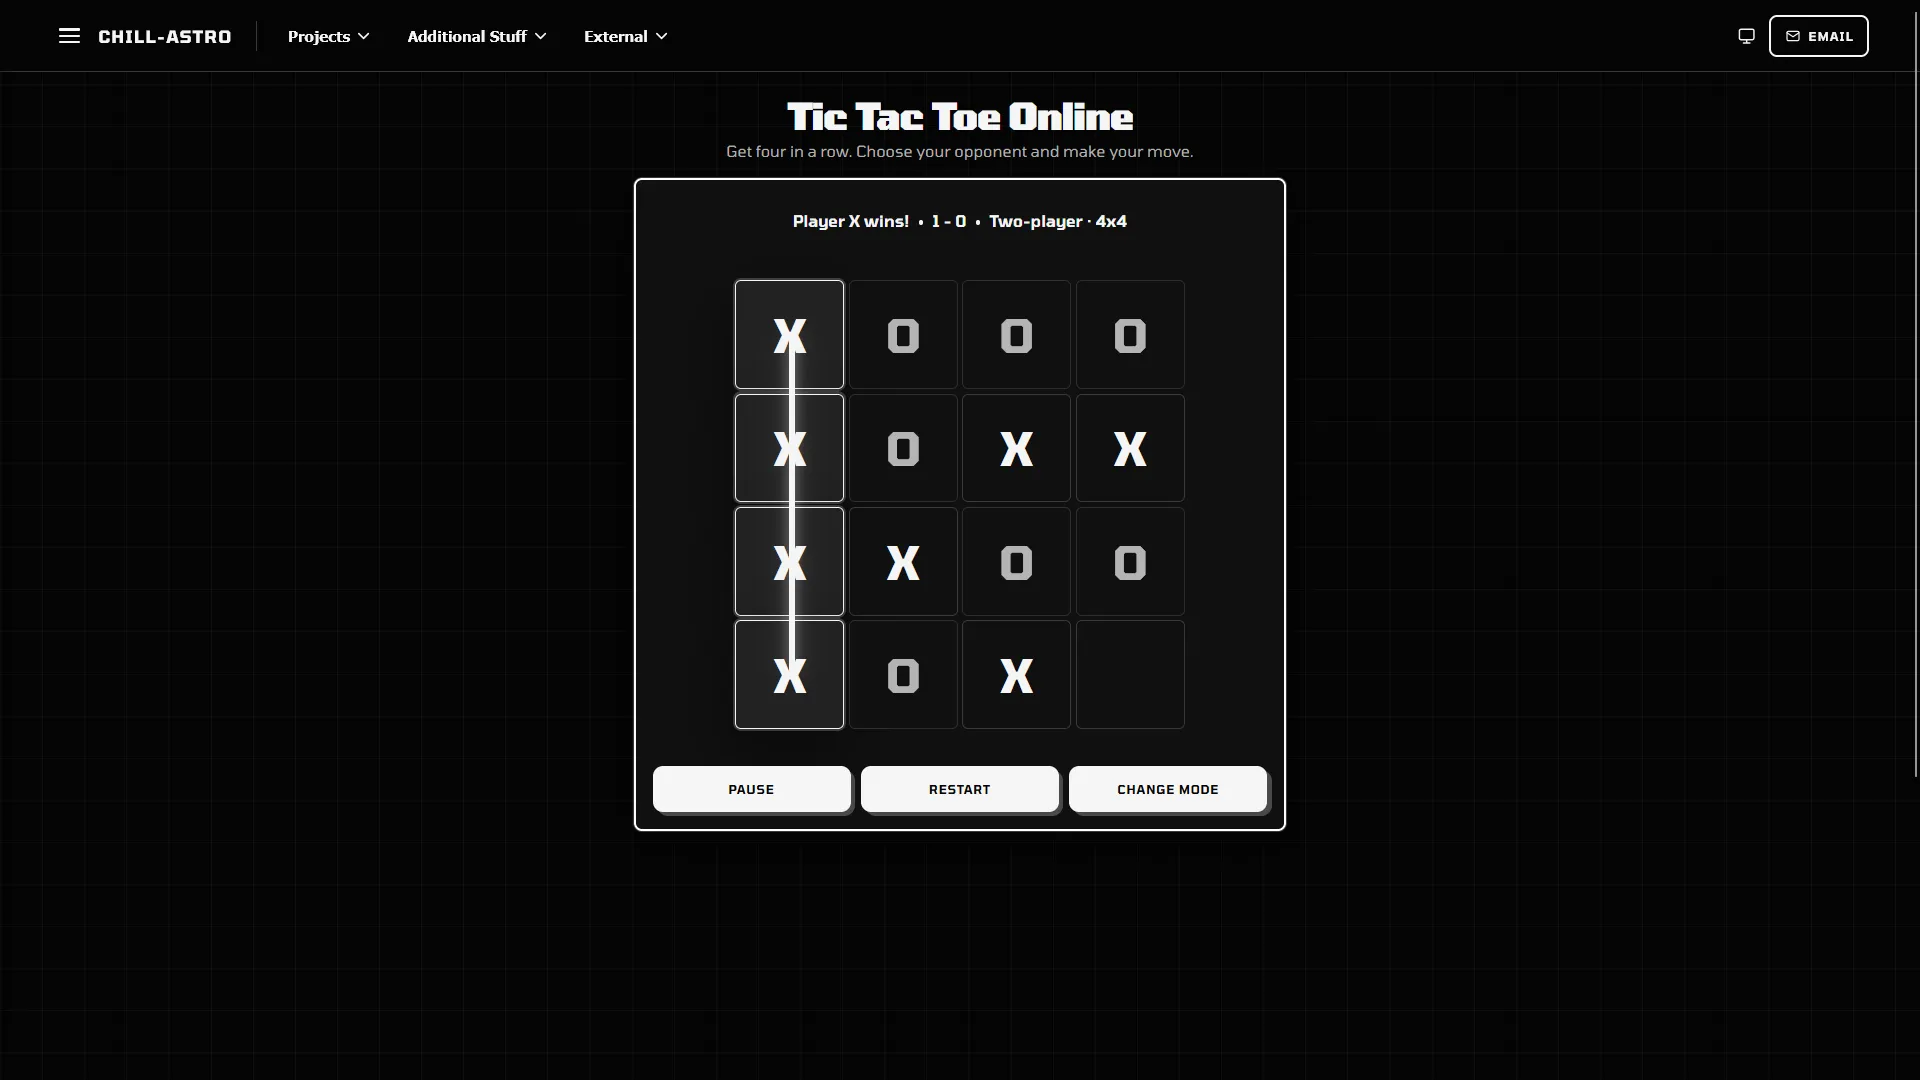
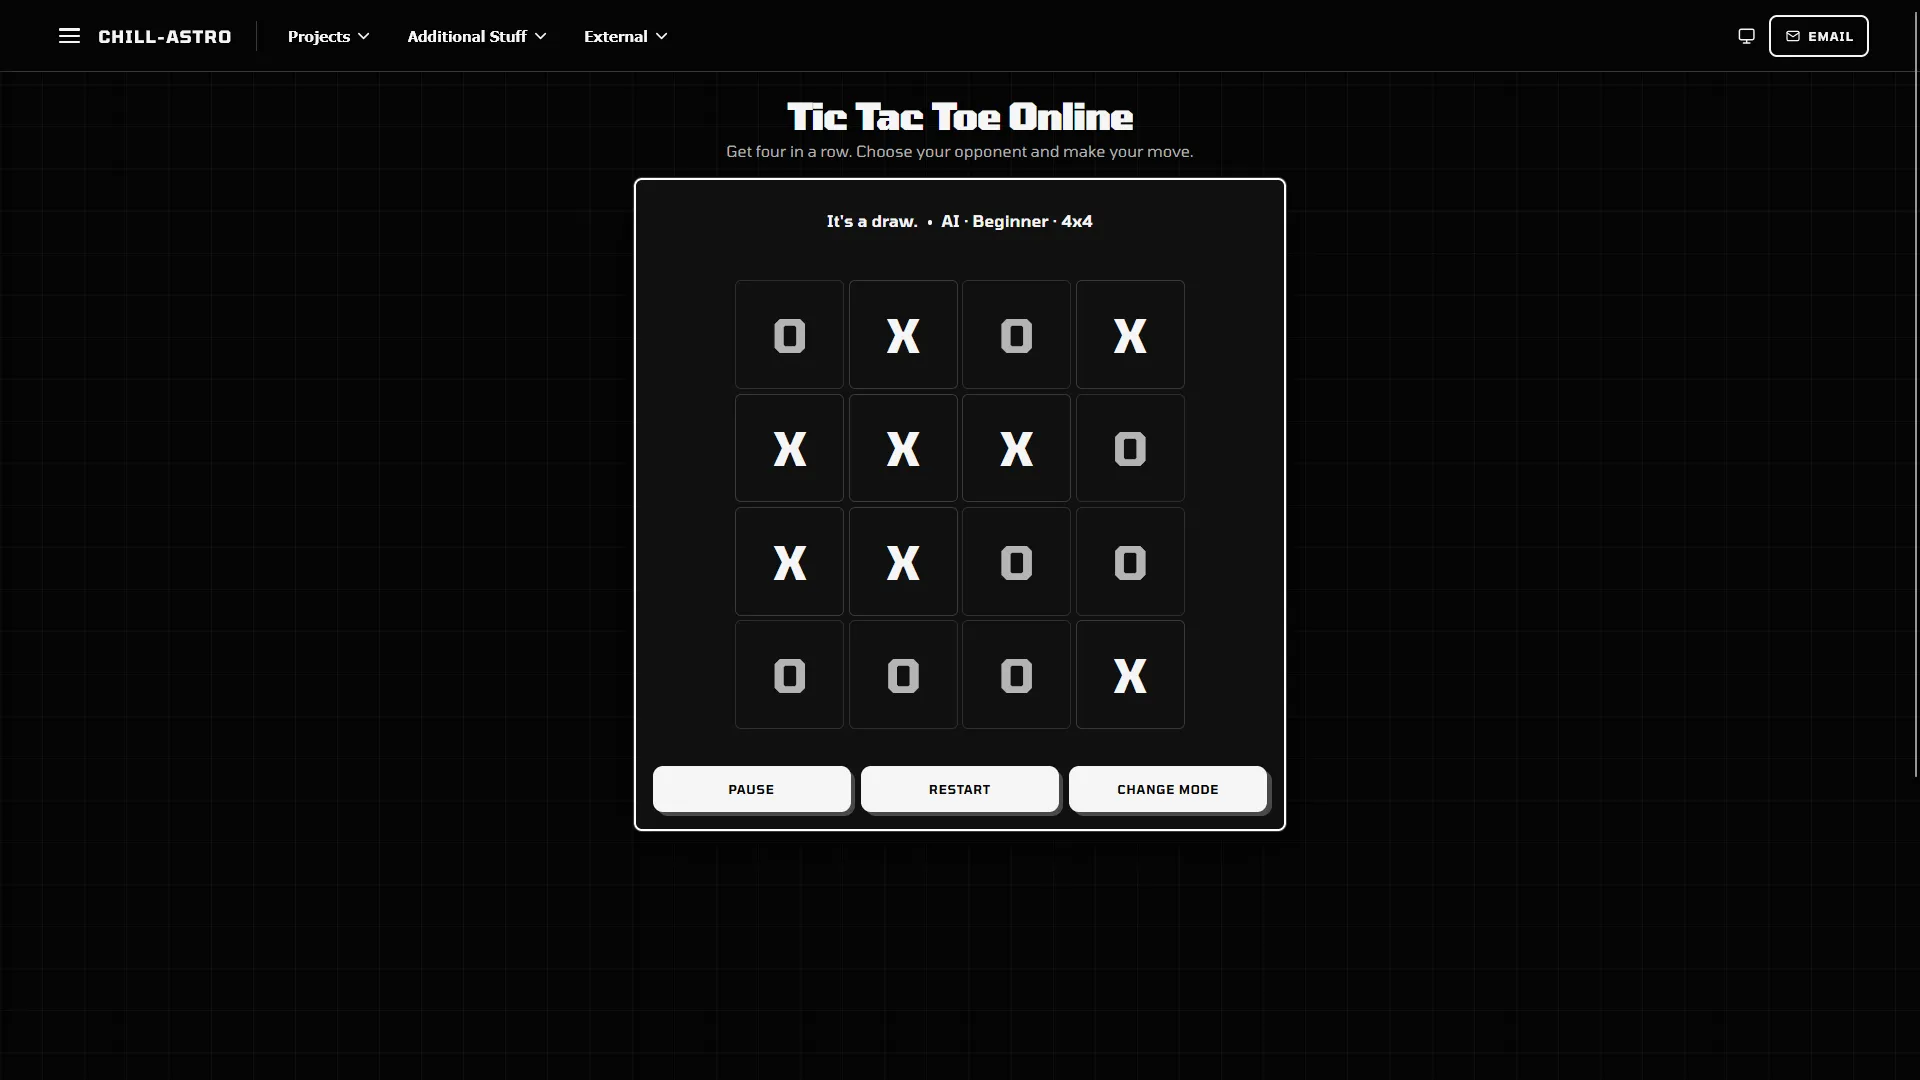
updated tic tac toe

diff --git a/js/tic-tac-toe.js b/js/tic-tac-toe.js
@@ -10,7 +10,6 @@
     const pauseButton = document.getElementById("pause-game");
     const restartButton = document.getElementById("restart-game");
     const changeModeButton = document.getElementById("change-mode");
-    const scoreElement = document.getElementById("ttt-score");
     const modeLabel = document.getElementById("mode-label");
     const winLine = document.getElementById("ttt-win-line");
     const pausedOverlay = document.getElementById("paused-overlay");
@@ -25,7 +24,7 @@
     const difficultyButtons = [...document.querySelectorAll(".ttt-mode-button[data-difficulty]")];
     const boardSizeButtons = [...document.querySelectorAll(".ttt-mode-button[data-board-size]")];
 
-    if (!modePicker || !game || !gameContent || !status || !boardElement || cells.length !== 25 || !pauseButton || !restartButton || !changeModeButton || !scoreElement || !modeLabel || !winLine || !pausedOverlay || modeButtons.length !== 2 || difficultyButtons.length !== 2 || boardSizeButtons.length !== 2 || !modeTitle || !modeDescription || !modeOptions || !difficultyOptions || !boardSizeOptions || !backButton || !boardSizeBackButton) {
+    if (!modePicker || !game || !gameContent || !status || !boardElement || cells.length !== 25 || !pauseButton || !restartButton || !changeModeButton || !modeLabel || !winLine || !pausedOverlay || modeButtons.length !== 2 || difficultyButtons.length !== 2 || boardSizeButtons.length !== 2 || !modeTitle || !modeDescription || !modeOptions || !difficultyOptions || !boardSizeOptions || !backButton || !boardSizeBackButton) {
         console.error("Tic Tac Toe Online could not initialize because required game elements are missing.");
         return;
     }
@@ -70,7 +69,6 @@
     let difficulty = null;
     let marks = Array(boardSize * boardSize).fill("");
     let currentPlayer = "X";
-    let scores = { X: 0, O: 0 };
     let paused = false;
     let gameOver = false;
     let aiTimeout = 0;
@@ -86,11 +84,8 @@
     }
 
     function getStatusText() {
-        if (!mode) return "Your turn (X)";
         if (paused) return "Game paused";
-        if (mode === "ai" && currentPlayer === "O" && !gameOver) return "AI is thinking…";
-        if (mode === "ai") return "Your turn (X)";
-        return `Player ${currentPlayer}'s turn`;
+        return currentPlayer;
     }
 
     function render() {
@@ -118,11 +113,6 @@
         status.classList.toggle("is-paused", paused);
         game.classList.toggle("is-paused", paused);
         pausedOverlay.hidden = !paused;
-    }
-
-    function renderScore() {
-        scoreElement.textContent = `${scores.X} - ${scores.O}`;
-        scoreElement.setAttribute("aria-label", `Score: X ${scores.X}, O ${scores.O}`);
     }
 
     function clearAiTurn() {
@@ -165,8 +155,6 @@
         paused = false;
         pauseButton.hidden = true;
         if (winner) {
-            scores[winner.player] += 1;
-            renderScore();
             showWinningStroke(winner);
             if (mode === "ai") status.textContent = winner.player === "X" ? "You win!" : "The AI wins.";
             else status.textContent = `Player ${winner.player} wins!`;
@@ -420,7 +408,6 @@
         modeLabel.textContent = mode === "ai"
             ? `AI · ${difficulty === "god" ? "God Mode · 5x5" : "Beginner · 4x4"}`
             : `Two-player · ${boardSize}x${boardSize}`;
-        renderScore();
         resetRound();
         const middle = Math.floor(boardSize / 2);
         cells[middle * boardSize + middle].focus({ preventScroll: true });
@@ -486,8 +473,6 @@
         boardElement.style.setProperty("--ttt-grid-size", boardSize);
         boardElement.setAttribute("aria-label", `${boardSize} by ${boardSize} Tic-Tac-Toe board`);
         modeLabel.textContent = "AI · Beginner · 4x4";
-        scores = { X: 0, O: 0 };
-        renderScore();
         game.classList.add("is-choosing");
         modePicker.hidden = false;
         gameContent.setAttribute("aria-hidden", "true");

diff --git a/tic-tac-toe/index.html b/tic-tac-toe/index.html
@@ -129,8 +129,7 @@
         <section class="ttt-game is-choosing" id="ttt-game" aria-label="Tic-Tac-Toe game">
             <div class="ttt-game-content" id="ttt-game-content" aria-hidden="true">
                 <div class="ttt-game-header">
-                    <p class="ttt-status" id="ttt-status" role="status" aria-live="polite">Your turn (X)</p>
-                    <span class="ttt-score" id="ttt-score" aria-label="Score: X 0, O 0">0 - 0</span>
+                    <p class="ttt-status" id="ttt-status" role="status" aria-live="polite">X</p>
                     <span class="ttt-mode-label" id="mode-label">AI · Beginner · 4x4</span>
                 </div>
 
@@ -217,6 +216,6 @@
     <div id="footer"></div>
     <script src="../js/main.js?effects=6"></script>
     <script src="../js/game-audio.js"></script>
-    <script src="../js/tic-tac-toe.js?v=4"></script>
+    <script src="../js/tic-tac-toe.js?v=6"></script>
 </body>
 </html>

diff --git a/css/tic-tac-toe.css b/css/tic-tac-toe.css
@@ -456,7 +456,7 @@
     gap: clamp(0.25rem, 1vw, 0.55rem);
 }
 
-.ttt-game-header > :is(.ttt-status, .ttt-score, .ttt-mode-label) {
+.ttt-game-header > :is(.ttt-status, .ttt-mode-label) {
     color: var(--ttt-game-ink);
     font-size: clamp(0.72rem, 2.7vw, 0.95rem);
     font-weight: 600;
@@ -474,14 +474,12 @@
     white-space: nowrap;
 }
 
-.ttt-score,
 .ttt-game-header .ttt-mode-label {
     flex: 0 1 auto;
     min-width: 0;
     white-space: nowrap;
 }
 
-.ttt-score::before,
 .ttt-game-header .ttt-mode-label::before {
     display: inline-block;
     width: 0.28em;
